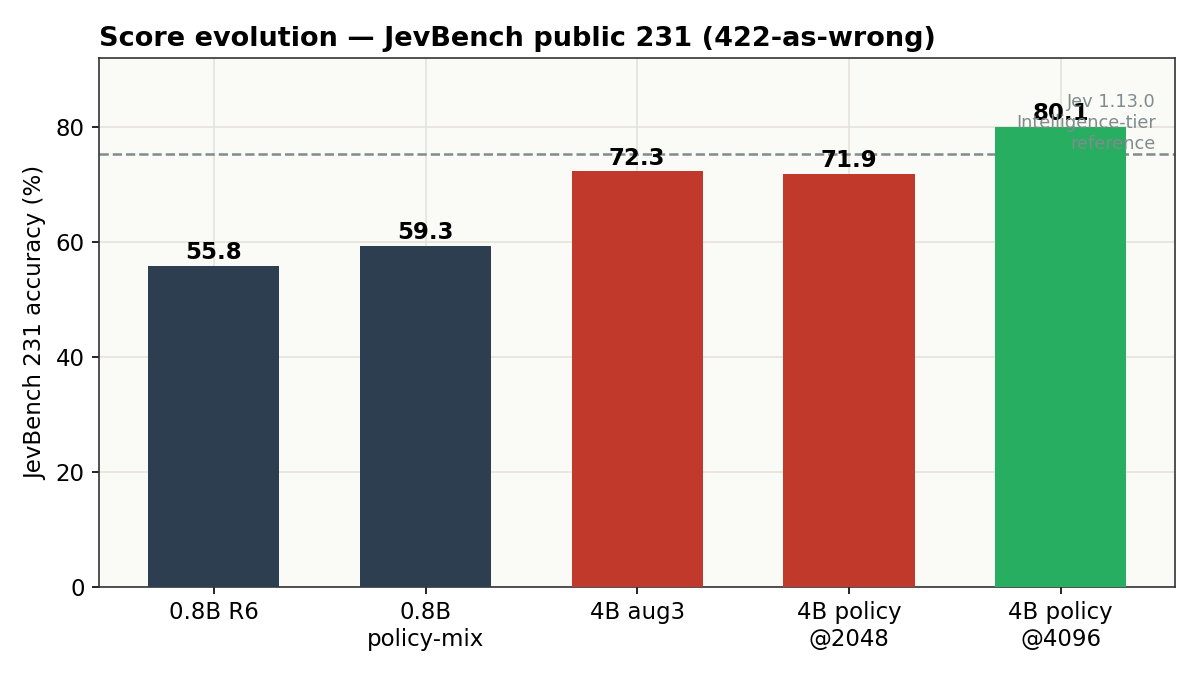
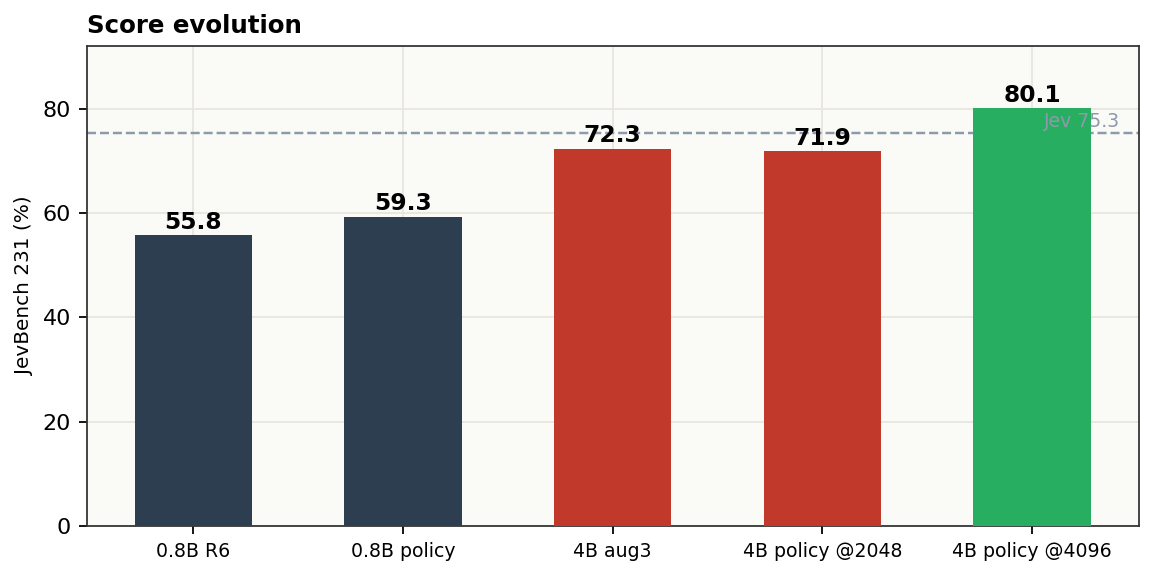
card: compact figures (620px), JevBench head-to-head chart vs published systems, tighter layout

diff --git a/models/metask-jev-4b/card.md b/models/metask-jev-4b/card.md
@@ -19,49 +19,20 @@ pipeline_tag: text-classification
 
 # Metask-Jev-4B
 
-A calibrated **typed-decision model**: give it a piece of state (text, ticket, policy, JSON) and a typed question — `choice`, `boolean`, or rubric `score` — and it returns a probability for every option in a **single forward pass (~24 ms on a 4090)**. No generation, no parsing, nothing to hallucinate.
+A calibrated **typed-decision model**: give it a state (text, ticket, policy, JSON) and a typed question — `choice`, `boolean`, or rubric `score` — and it returns a probability for every option in a **single forward pass (~24 ms)**. No generation, no parsing, nothing to hallucinate.
 
-**Headline numbers** — all measured on public human-labeled data, never on our own training mix:
-
-| Benchmark | metask-jev-4b | Bespoke Nimble-9B | Jev 1.13.0 |
+| | metask-jev-4b | Bespoke Nimble-9B | Jev 1.13.0 |
 |---|---:|---:|---:|
-| 13 public human-labeled subsets (3,880 items), macro | **79.6%** | 74.8% | 76.0% |
-| JevBench v1.2 public 231 decisions @4096 ctx | **80.1%** | 63.5% (total score) | 75.3 (total score) |
-| Calibration, ECE after per-kind temperature | **0.028** | — | — |
-| p50 latency (RTX 4090, single question) | **~24 ms** | ~190 ms (A40) | 236–276 ms |
+| 13 human-labeled subsets (3,880 items), macro | **79.6%** | 74.8% | 76.0% |
+| JevBench v1.2 public 231 @4096 ctx | **80.1%** | 63.5% | 75.3 |
+| ECE after per-kind temperature | **0.028** | — | — |
+| p50 latency (single question) | **~24 ms** | ~190 ms | 236–276 ms |
 
-12 of the 13 subsets exceed Bespoke Nimble-9B — a model 2.2× its size — with the same prompt format and scoring protocol.
+**12 of 13 subsets exceed Bespoke Nimble-9B** — a model 2.2× its size — same prompt format, same scoring protocol.
 
-![13-subset comparison](eval/figs/fig1_subsets.png)
+## 13 human-labeled subsets (3,880 items)
 
-## Quickstart
-
-```python
-from jev_scorer import load_model, score
-
-model, tok, dev = load_model("Raymond1122/metask-jev-4b-policy-mix")
-
-state = ("The store accepts returns within 30 days of purchase. "
-         "This item was bought 12 days ago and is unopened.")
-schema = {"decision": {
-    "description": "Is the item still eligible for return?",
-    "type": "boolean",                      # "enum" for choice, "boolean" for yes/no
-    "choices": [False, True],
-    "choice_descriptions": {"false": "Not eligible.", "true": "Eligible."},
-}}
-
-r = score(model, tok, state, schema, temperature=2.25)   # noul temperature
-print(r["prediction"], r["probabilities"])
-# True {'false': 0.013, 'true': 0.987}
-```
-
-Answer tokens A–Z are verified single tokens for this tokenizer at load time; probabilities come from a softmax over exactly those logits — the model never generates.
-
-## Benchmarks
-
-### 13 public human-labeled subsets (3,880 items)
-
-The primary suite: BoolQ, MultiNLI, PAWS, PubMedQA, SQuAD-2, VitaminC, Civil Comments, Aegis 2.0, MASSIVE (en/de), HelpSteer-2, SummEval (consistency/relevance). Every item is human-labeled; the suite is byte-reproducible (manifest-locked ids + sha256) and shared with the Bespoke Nimble evaluation protocol.
+The primary suite: BoolQ, MultiNLI, PAWS, PubMedQA, SQuAD-2, VitaminC, Civil Comments, Aegis 2.0, MASSIVE (en/de), HelpSteer-2, SummEval (consistency / relevance). Every item human-labeled; byte-reproducible (manifest-locked ids + sha256); same protocol as the Bespoke Nimble evaluation.
 
 | subset | type | n | metask-jev-4b | 95% CI | Nimble-9B | Δ |
 |---|---|---:|---:|---|---:|---:|
@@ -80,26 +51,26 @@ The primary suite: BoolQ, MultiNLI, PAWS, PubMedQA, SQuAD-2, VitaminC, Civil Com
 | summeval-relevance | score | 240 | 26.7% | 21.5–32.6 | 49.2% | −22.5 |
 | **macro** | | 3,880 | **79.6%** | | 74.8% | **+4.8** |
 
-Where it wins: verification-style noul (civil +21.0, paws +11.2) and rubric score on consistency (+9.7). Where it loses: summeval-relevance — a 5-level rubric with a systematic 3↔4 boundary shift; see [Honest limits](#honest-limits).
+Wins: verification-style noul (civil +21.0, paws +11.2) and consistency scoring (+9.7). Loss: summeval-relevance — a 5-level rubric with a systematic 3↔4 boundary shift; see [Honest limits](#honest-limits).
 
-### JevBench v1.2 — public 231 decisions
+<img src="eval/figs/fig1_subsets.png" width="620" alt="13-subset comparison">
 
-![JevBench tiers](eval/figs/fig2_jevbench_tiers.png)
+## JevBench v1.2 — public 231 decisions
 
-| tier | items | @ctx 2048 | @ctx 4096 |
-|---|---:|---:|---:|
-| judge (original) | 72 | 98.6% | 98.6% |
-| easy | 48 | 100.0% | 100.0% |
-| hard | 111 | 42.3% | **59.5%** |
-| **total** | 231 | 71.9% | **80.1%** |
+Scored under the official protocol (422 = wrong), at **4096-token context** — the same configuration used for every system below. The hard tier contains long policy documents: at the 9B pipeline's 2048-token limit 36 of 111 items are rejected; this model natively handles 4096 and answers 88% of them correctly. **Context length, not capability, was the bottleneck.**
 
-The hard tier contains long policy documents. At the 9B pipeline's 2048-token limit, 36 of 111 items are rejected (422 = scored wrong); this model natively handles 4096, and answers 88% of those previously-rejected items correctly. **Context length, not capability, was the bottleneck.**
+| tier | items | metask-jev-4b |
+|---|---:|---:|
+| judge (original) | 72 | 98.6% |
+| easy | 48 | 100.0% |
+| hard | 111 | 59.5% |
+| **total** | 231 | **80.1%** |
 
-### Calibration
+<img src="eval/figs/fig2_jevbench_h2h.png" width="620" alt="JevBench head-to-head">
 
-![Calibration](eval/figs/fig4_calibration.png)
+## Calibration
 
-Ships over-confident like every model in this family. One temperature per question kind, fit by NLL minimization on a held-out validation split (never on eval):
+Ships over-confident, like every model in this family. One temperature per question kind, fit by NLL minimization on a held-out validation split (never on eval). ECE (10 bins): **0.100 → 0.028**.
 
 | kind | T |
 |---|---:|
@@ -107,50 +78,43 @@ Ships over-confident like every model in this family. One temperature per questi
 | noul | 2.25 |
 | score | 2.05 |
 
-ECE (10 bins, macro over 13 subsets): **0.100 → 0.028**. Apply at inference: `probs = softmax(logits / T_kind)`.
+<img src="eval/figs/fig4_calibration.png" width="620" alt="Calibration">
 
-### Score evolution
+## Score evolution
 
-![Evolution](eval/figs/fig3_evolution.png)
+<img src="eval/figs/fig3_evolution.png" width="620" alt="Evolution">
 
-### Speed
+## Speed
 
-![Latency](eval/figs/fig5_latency.png)
+<img src="eval/figs/fig5_latency.png" width="620" alt="Latency">
 
-| system | p50 / decision | hardware |
-|---|---:|---|
-| metask-jev-4b | **~24 ms** | RTX 4090 |
-| Bespoke Nimble-9B | ~190 ms | A40 |
-| Jev 1.13.0 (published) | 236–276 ms | production API |
-
-Single forward pass over the prompt, one softmax over ≤26 candidate logits. Batched serving scales linearly.
+Single forward pass over the prompt, one softmax over ≤26 candidate logits.
 
 ## Training
 
-1. **Backbone**: Qwen3.5-4B @ `851bf6e`, LoRA r16 α32 on all language-model linear layers, merged at release.
-2. **Supervision**: 44.8k view-augmented decisions from 11 public datasets (3 criteria orderings per item; the gold label follows its option, which kills position-collapse priors).
-3. **Policy-mix**: 390 synthetic policy-family decisions (long_policy, multi_hop, temporal_numeric, judge_hard, trap, probability, ambiguous, adversarial, tradeoff) with teacher soft labels, 2× upsampled — mirroring the JevBench hard-tier families at ≤2048-token states.
-4. **Objective**: candidate cross-entropy at the last prompt position. 1 epoch, lr 2e-5, batch 4×2, BF16 + gradient checkpointing. Single RTX 4090, 2h34m, peak 19 GB.
+1. **Backbone** — Qwen3.5-4B @ `851bf6e`, LoRA r16 α32 on all language-model linear layers, merged at release.
+2. **Supervision** — 44.8k view-augmented decisions from 11 public datasets (3 criteria orderings per item; gold follows its option, killing position-collapse priors).
+3. **Policy-mix** — 390 synthetic policy-family decisions (long_policy, multi_hop, temporal_numeric, judge_hard, trap, probability, ambiguous, adversarial, tradeoff) with teacher soft labels, 2× upsampled — mirroring the JevBench hard-tier families at ≤2048-token states.
+4. **Objective** — candidate cross-entropy at the last prompt position. 1 epoch, lr 2e-5, batch 4×2, BF16 + gradient checkpointing. Single RTX 4090, 2h34m, peak 19 GB.
 
-The training objective and prompt format are unchanged from the official Nimble protocol; the recipe card with reproduction commands is in the [GitHub repo](https://github.com/metask-ai/metask-jev).
+Objective and prompt format are unchanged from the official Nimble protocol; the recipe card with reproduction commands lives in the [GitHub repo](https://github.com/metask-ai/metask-jev).
 
 ## Honest limits
 
-- **summeval-relevance (26.7%)** is the one clear regression vs 9B (49.2%): a 5-level rubric where the model systematically shifts 3↔4 at one boundary. NLL and expected-score error are actually *better* than 9B; the argmax metric amplifies the boundary shift. If your use case is fine-grained relevance scoring, evaluate this subset yourself first.
+- **summeval-relevance (26.7%)** is the one clear regression vs 9B (49.2%): a 5-level rubric with a systematic 3↔4 boundary shift. NLL and expected-score error are actually *better* than 9B — the argmax metric amplifies the boundary shift. If your use case is fine-grained relevance scoring, evaluate this subset yourself first.
 - **helpsteer2 (43.0%)**: rubric scoring is the weakest primitive family-wide (9B 39.0%, Jev ~50%).
-- **1 item over 4096 tokens** is still rejected (422-scored-wrong under JevBench protocol).
+- **1 item** over 4096 tokens is still rejected (422-scored-wrong under JevBench protocol).
 - **Distillation share**: 390 of 45.6k training decisions (~0.9%) carry teacher soft labels; the rest are human-labeled public data.
-- Temperatures are fit on our validation split. Refit on your own data before trusting probabilities in a new domain (one NLL sweep, minutes).
+- **Temperatures** are fit on our validation split. Refit on your own data before trusting probabilities in a new domain (one NLL sweep, minutes).
 
-## Intended use & safety
+## Intended use
 
-Designed for routing, triage, moderation, guardrails, evidence-grounded verification, and rubric scoring where calibrated probabilities matter more than generated explanations. Not a generative model; it cannot produce free-form text or reasoning.
+Routing, triage, moderation, guardrails, evidence-grounded verification, rubric scoring — anywhere calibrated probabilities matter more than generated explanations. Not a generative model.
 
 ## Links
 
-- GitHub (inference + recipes): https://github.com/metask-ai/metask-jev
-- JevBench: https://github.com/fstandhartinger/jevbench
-- Prompt/scoring protocol: https://github.com/bespokelabsai/nimble
+- GitHub: [metask-ai/metask-jev](https://github.com/metask-ai/metask-jev) · internal lab: [metask-ai/metask-jev-lab](https://github.com/metask-ai/metask-jev-lab)
+- JevBench: [fstandhartinger/jevbench](https://github.com/fstandhartinger/jevbench) · protocol: [bespokelabsai/nimble](https://github.com/bespokelabsai/nimble)
 
 ## Licence
 
